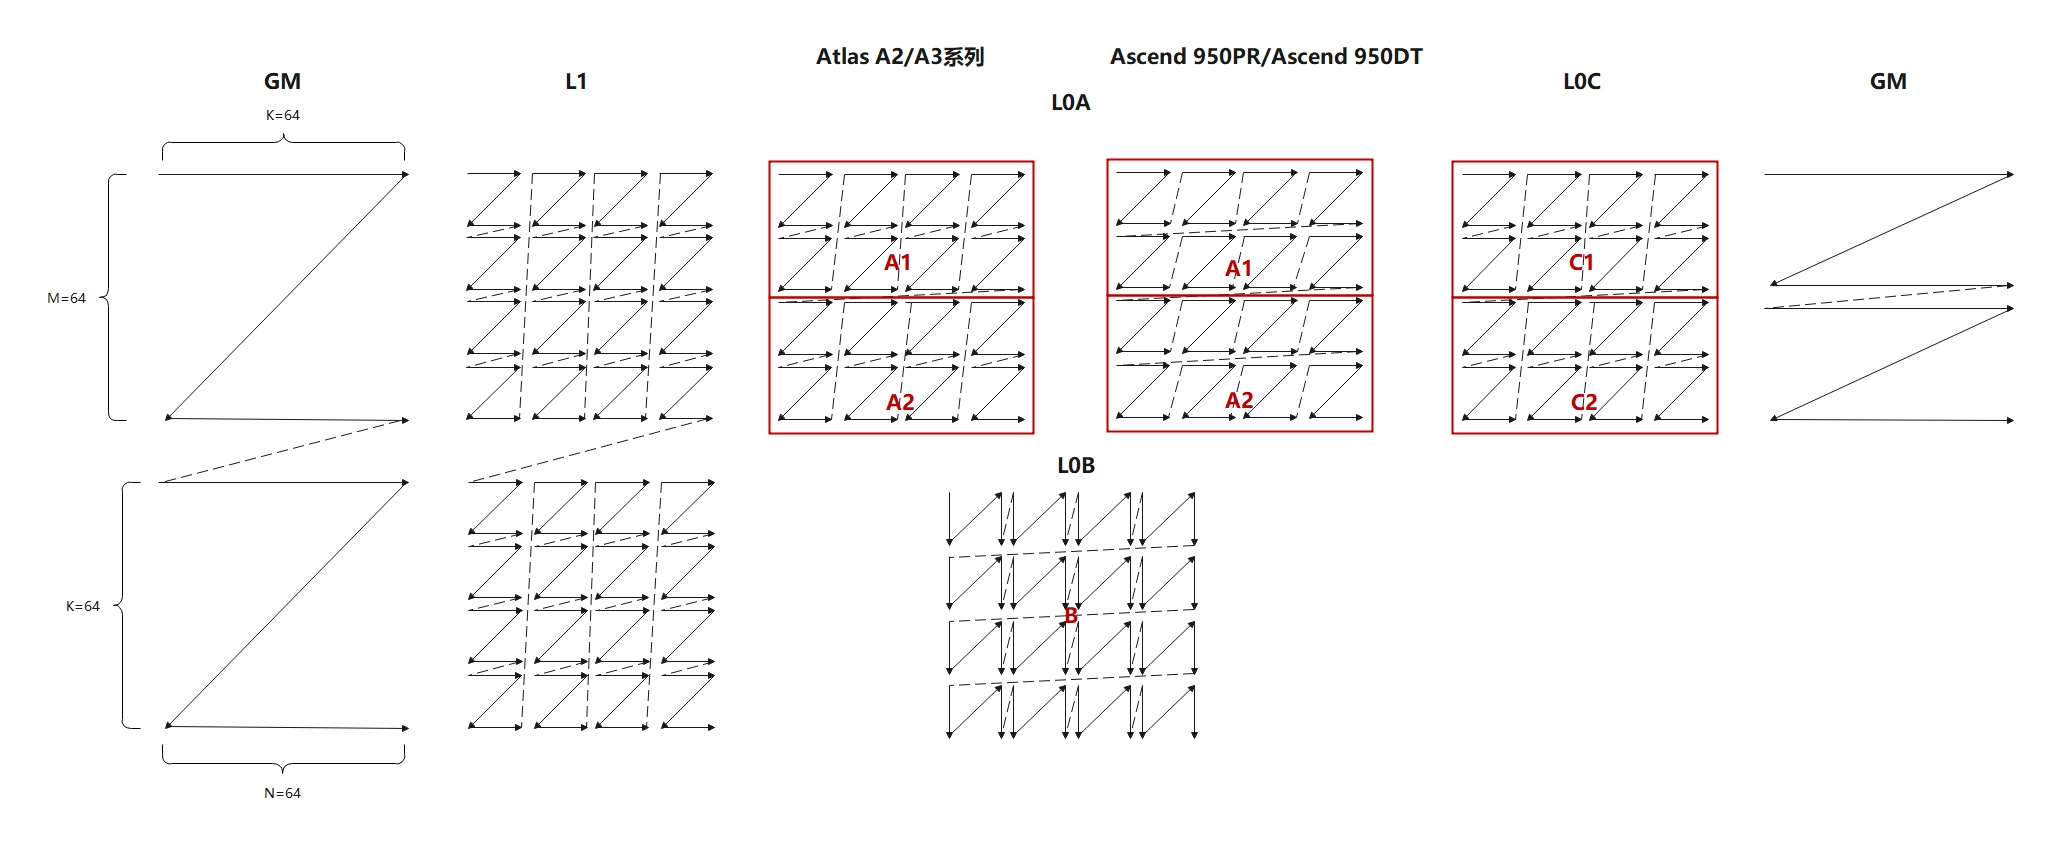
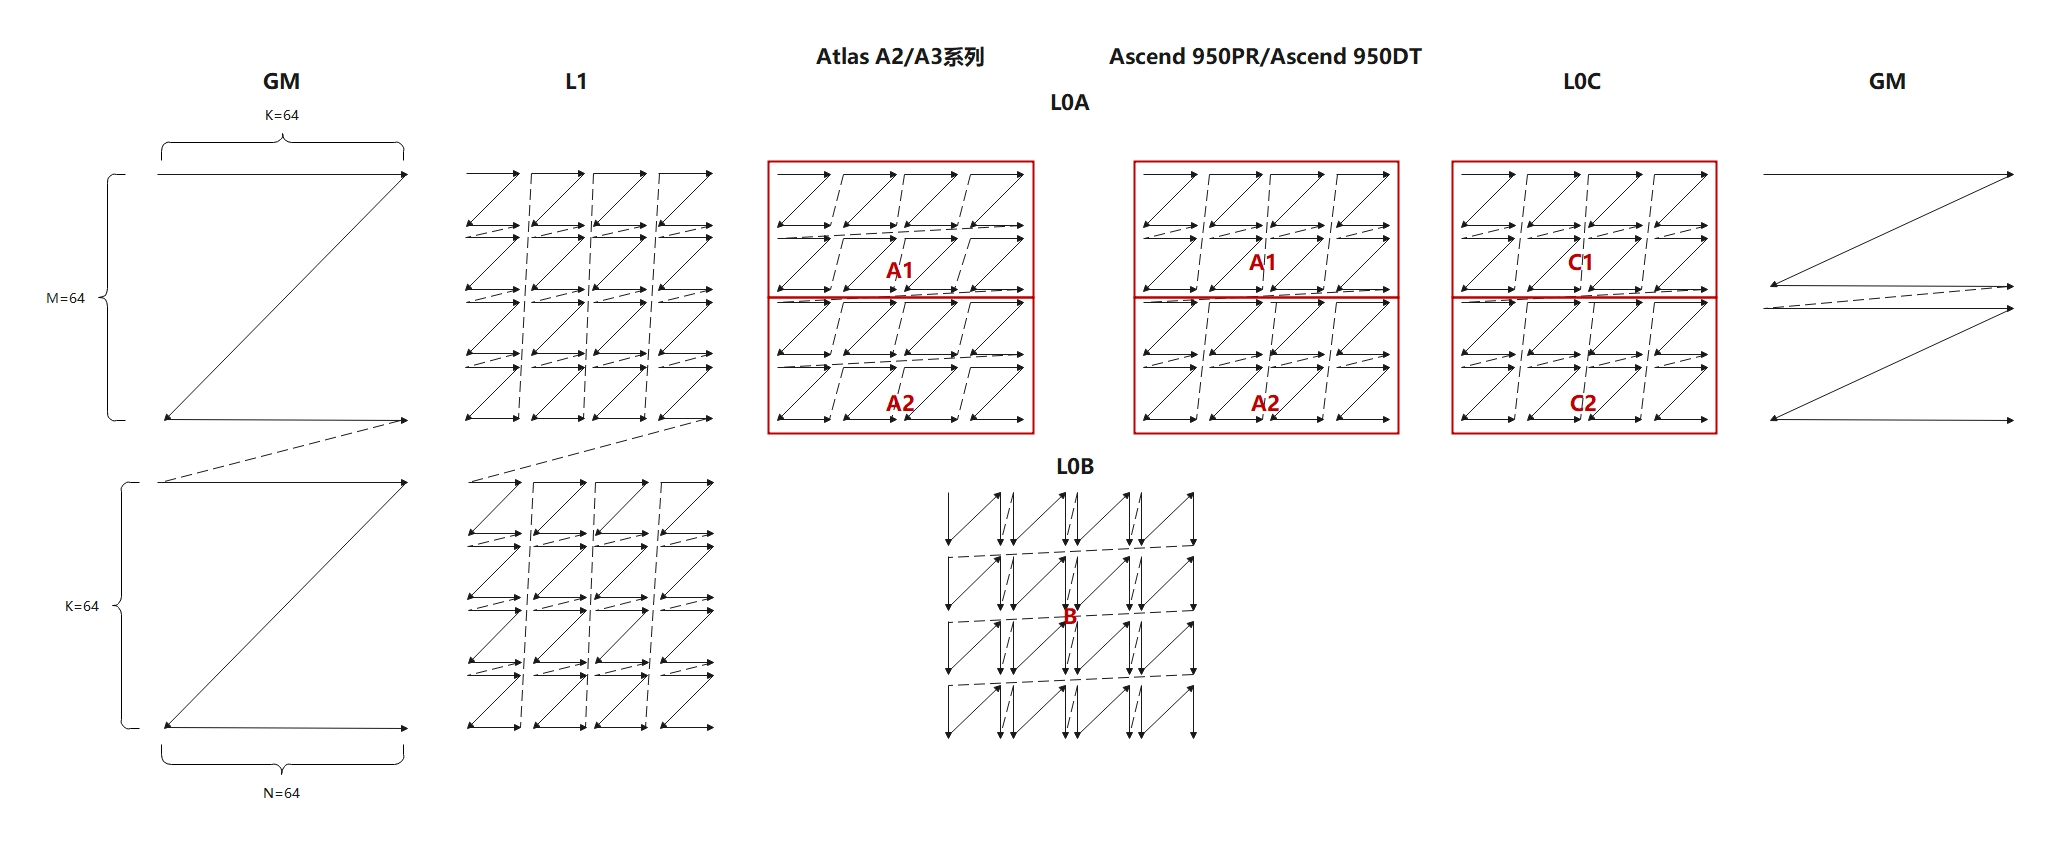
update

diff --git a/examples/01_simd_cpp_api/05_compatibility_guide/pattern_transformation/scripts/gen_data.py b/examples/01_simd_cpp_api/05_compatibility_guide/pattern_transformation/scripts/gen_data.py
@@ -20,12 +20,9 @@ def gen_golden_data_simple():
     input_shape_x = [64, 64]
     input_shape_y = [64, 64]
     dtype = np.half
-    # 第一个ND矩阵
     input_x = np.arange(4096).reshape(input_shape_x).astype(dtype)
     input_y = np.arange(4096).reshape(input_shape_y).astype(dtype)
-    # 第一个ND矩阵的结果
     golden = np.matmul(input_x.astype(np.float32), input_y.astype(np.float32)).astype(np.float32)
-    # write
     os.makedirs("input", exist_ok=True)
     os.makedirs("output", exist_ok=True)
     input_x.tofile("./input/input_x.bin")

diff --git a/examples/01_simd_cpp_api/05_compatibility_guide/pattern_transformation/README.md b/examples/01_simd_cpp_api/05_compatibility_guide/pattern_transformation/README.md
@@ -117,7 +117,7 @@ for (uint32_t i = 0; i < kBlocks; ++i) {
 ```
 
 
-#### L0A复用场景（Ascend 950PR/Ascend 950DT，\__NPU_ARCH__ = 3510）
+#### L0A复用场景
 
 在分析前，先介绍数学背景。对于矩阵乘法 C = A × B，当 A 可拆分为上下两块时：
 
